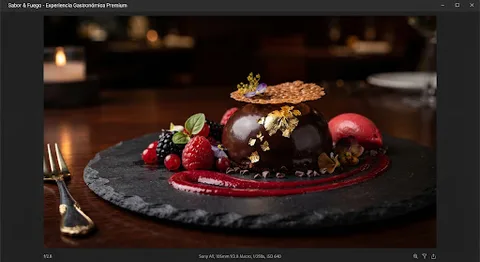
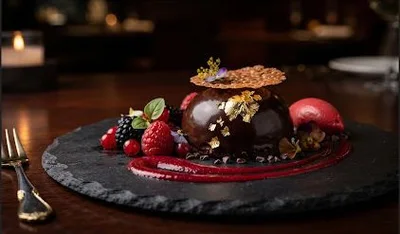
fix(design): repair the three defects shipping on the demo landings
Three P0s from the critique of the seven niche demos.

The agency pricing table was unreadable. Its featured card takes
--accent-ink for the price, the kicker and the body copy, and that token
is #ffffff in light theme; the light rule that paints agency cards white
outweighs the one that paints this card lime, so the recommended plan
rendered white text on white. Measured 1:1 at both widths. The light
rule now excludes the featured card, and the card restates its own ink
for those three descendants instead of trusting a token chosen for a
different surface. Verified at 15.71:1.

The gym demo had lost the world its own DESIGN.md describes. A later
global block repainted --gym-amber, --gym-success and --signal to
#36d36f, so a class still called .amber-action rendered green -- and one
rule painted the action button and the WhatsApp trigger from a single
token, collapsing the two roles the document says must never be
confused. Amber is restored in both themes, the two buttons are split,
and the WhatsApp trigger keeps #0d7a3f, which the document reserves for
it alone.

The restaurant page shipped three fabricated artefacts. restaurants-03
was a screenshot of an image viewer, title bar and invented camera EXIF
included; it is cropped to the photograph, with the bounds measured
rather than eyeballed -- viewer chrome is flat neutral grey, a photograph
is not. restaurants-08 was a title card reading "Alejandro Vargas" used
[…]

diff --git a/apps/web/pages/restaurants/index.html b/apps/web/pages/restaurants/index.html
@@ -373,15 +373,15 @@
           <div class="demo-gallery">
             <img
               decoding="async"
-              width="512"
-              height="279"
+              width="422"
+              height="247"
               src="/assets/stitch/restaurants-03.jpg"
               srcset="
-                /assets/stitch/restaurants-03-480.webp 480w,
-                /assets/stitch/restaurants-03.jpg      512w
+                /assets/stitch/restaurants-03-480.webp 400w,
+                /assets/stitch/restaurants-03.jpg      422w
               "
               sizes="(max-width: 620px) calc(100vw - 32px), (max-width: 1024px) 50vw, 33vw"
-              alt="Plato de temporada"
+              alt="Postre de chocolate con frutos rojos sobre pizarra"
               loading="lazy"
             />
             <img
@@ -457,14 +457,14 @@
           <img
             decoding="async"
             width="512"
-            height="279"
-            src="/assets/stitch/restaurants-08.jpg"
+            height="286"
+            src="/assets/stitch/restaurants-01.jpg"
             srcset="
-              /assets/stitch/restaurants-08-480.webp 480w,
-              /assets/stitch/restaurants-08.jpg      512w
+              /assets/stitch/restaurants-01-480.webp 480w,
+              /assets/stitch/restaurants-01.jpg      512w
             "
             sizes="(max-width: 620px) calc(100vw - 32px), (max-width: 1024px) 50vw, 33vw"
-            alt="Retrato del chef Alejandro Medina"
+            alt="Vieiras selladas con vegetales y flores comestibles, un plato de Alejandro Medina"
             loading="lazy"
           />
         </div>
@@ -577,29 +577,19 @@
         </div>
       </section>
 
+      <!-- La imagen que acompañaba a esta sección era la captura de una web
+           ficticia con un mapa de Salamanca, Madrid, y un teléfono español,
+           junto a una dirección de Chapinero Alto. Recortarla no arreglaba
+           nada: lo que estaba mal era el contenido del mapa. Se retira hasta
+           que exista una imagen real de la ubicación. -->
       <section class="demo-section" id="ubicacion">
-        <div class="demo-shell demo-grid demo-grid--2">
-          <div>
-            <p class="demo-eyebrow">Ubicación</p>
-            <h2>Chapinero Alto, Bogotá.</h2>
-            <p class="demo-section-copy">
-              Carrera 4 Este #58–21 · Miércoles a sábado de 12:00 m. a 3:00 p. m. y de 6:00 p. m. a
-              11:00 p. m. Domingo de 12:00 m. a 5:00 p. m.
-            </p>
-          </div>
-          <img
-            decoding="async"
-            width="512"
-            height="279"
-            src="/assets/stitch/restaurants-09.jpg"
-            srcset="
-              /assets/stitch/restaurants-09-480.webp 480w,
-              /assets/stitch/restaurants-09.jpg      512w
-            "
-            sizes="(max-width: 620px) calc(100vw - 32px), (max-width: 1024px) 50vw, 33vw"
-            alt="Ubicación de muestra de Sabor y Fuego"
-            loading="lazy"
-          />
+        <div class="demo-shell">
+          <p class="demo-eyebrow">Ubicación</p>
+          <h2>Chapinero Alto, Bogotá.</h2>
+          <p class="demo-section-copy">
+            Carrera 4 Este #58–21 · Miércoles a sábado de 12:00 m. a 3:00 p. m. y de 6:00 p. m. a
+            11:00 p. m. Domingo de 12:00 m. a 5:00 p. m.
+          </p>
         </div>
       </section>
 

diff --git a/apps/web/src/sector-redesign.css b/apps/web/src/sector-redesign.css
@@ -938,12 +938,19 @@ html[data-theme] body.gym-board.sector-v2 {
   --gym-subtle: #88958a;
   --gym-line: #4d5b50;
   --gym-line-soft: #263129;
-  --gym-lime: #36d36f;
-  --gym-amber: #36d36f;
-  --gym-amber-hover: #6be394;
-  --gym-amber-ink: #07110b;
-  --gym-success: #36d36f;
-  --signal: #36d36f;
+  /* Amber, not green. apps/web/pages/gym/DESIGN.md makes #ffb400 the action
+     colour and reserves green exclusively for WhatsApp; this block used to
+     repaint every one of these tokens #36d36f, which collapsed the two roles
+     the document says must never be confused -- a class still named
+     .amber-action was rendering the WhatsApp hue. --gym-lime and --signal are
+     v2 inventions with no entry in that document, so they follow the action
+     colour rather than introduce a third one. */
+  --gym-lime: #ffb400;
+  --gym-amber: #ffb400;
+  --gym-amber-hover: #ffc633;
+  --gym-amber-ink: #151000;
+  --gym-success: #86d34f;
+  --signal: #ffb400;
   background: var(--gym-canvas);
 }
 
@@ -958,12 +965,15 @@ html[data-theme="light"] body.gym-board.sector-v2 {
   --gym-subtle: #4f5c51;
   --gym-line: #839086;
   --gym-line-soft: #c9d1ca;
-  --gym-lime: #13783b;
-  --gym-amber: #13783b;
-  --gym-amber-hover: #0e6430;
-  --gym-amber-ink: #fff;
-  --gym-success: #13783b;
-  --signal: #13783b;
+  /* The light-theme amber is the deep #633a00 that gym-board.css already
+     carries, not a tint of #ffb400: on a pale canvas the bright amber cannot
+     hold AA against white ink. Same reasoning as the dark block above. */
+  --gym-lime: #633a00;
+  --gym-amber: #633a00;
+  --gym-amber-hover: #653c00;
+  --gym-amber-ink: #ffffff;
+  --gym-success: #276c39;
+  --signal: #633a00;
   background: var(--gym-canvas);
 }
 
@@ -1013,10 +1023,21 @@ html[data-theme="light"] body.gym-board.sector-v2 {
   align-self: end;
 }
 
-.gym-board.sector-v2 :is(.amber-action, .gym-whatsapp-cta) {
+/* These two buttons are deliberately not grouped. DESIGN.md gives the action
+   its amber and reserves green for WhatsApp alone; painting both from one
+   token is what collapsed the two roles into a single colour, so the WhatsApp
+   trigger keeps its own. */
+.gym-board.sector-v2 .amber-action {
   color: var(--gym-amber-ink);
-  background: var(--gym-lime);
-  border-color: var(--gym-lime);
+  background: var(--gym-amber);
+  border-color: var(--gym-amber);
+  border-radius: 0;
+}
+
+.gym-board.sector-v2 .gym-whatsapp-cta {
+  color: #fff;
+  background: var(--gym-whatsapp);
+  border-color: var(--gym-whatsapp);
   border-radius: 0;
 }
 

diff --git a/apps/web/src/sector-worlds.css b/apps/web/src/sector-worlds.css
@@ -188,8 +188,18 @@ html[data-theme] .demo-agency {
   transform: none !important;
 }
 
-.demo-agency .demo-card.demo-card--featured {
+/* niche-showcase.css paints .demo-price, .demo-number and p with --accent-ink,
+   which is white in light theme. On this card's lime that is invisible, so the
+   card's own ink is restated for its descendants rather than left to a token
+   that was chosen for a different surface. */
+.demo-agency .demo-card.demo-card--featured,
+.demo-agency .demo-card.demo-card--featured .demo-price,
+.demo-agency .demo-card.demo-card--featured .demo-number,
+.demo-agency .demo-card.demo-card--featured p {
   color: #111507;
+}
+
+.demo-agency .demo-card.demo-card--featured {
   background: #c7ff45;
 }
 
@@ -1035,8 +1045,11 @@ html[data-theme="light"] .demo-agency .demo-button--ghost {
   border-color: rgb(23 18 31 / 0.38);
 }
 
+/* The featured card is excluded on purpose. It carries the world's lime, and
+   this selector outweighs the one that paints it, so without the :not() the
+   recommended plan turns white in light theme -- white text included. */
 html[data-theme="light"] .demo-agency .demo-section--surface,
-html[data-theme="light"] .demo-agency .demo-card,
+html[data-theme="light"] .demo-agency .demo-card:not(.demo-card--featured),
 html[data-theme="light"] .demo-agency .agency-case {
   background: #fff;
 }
